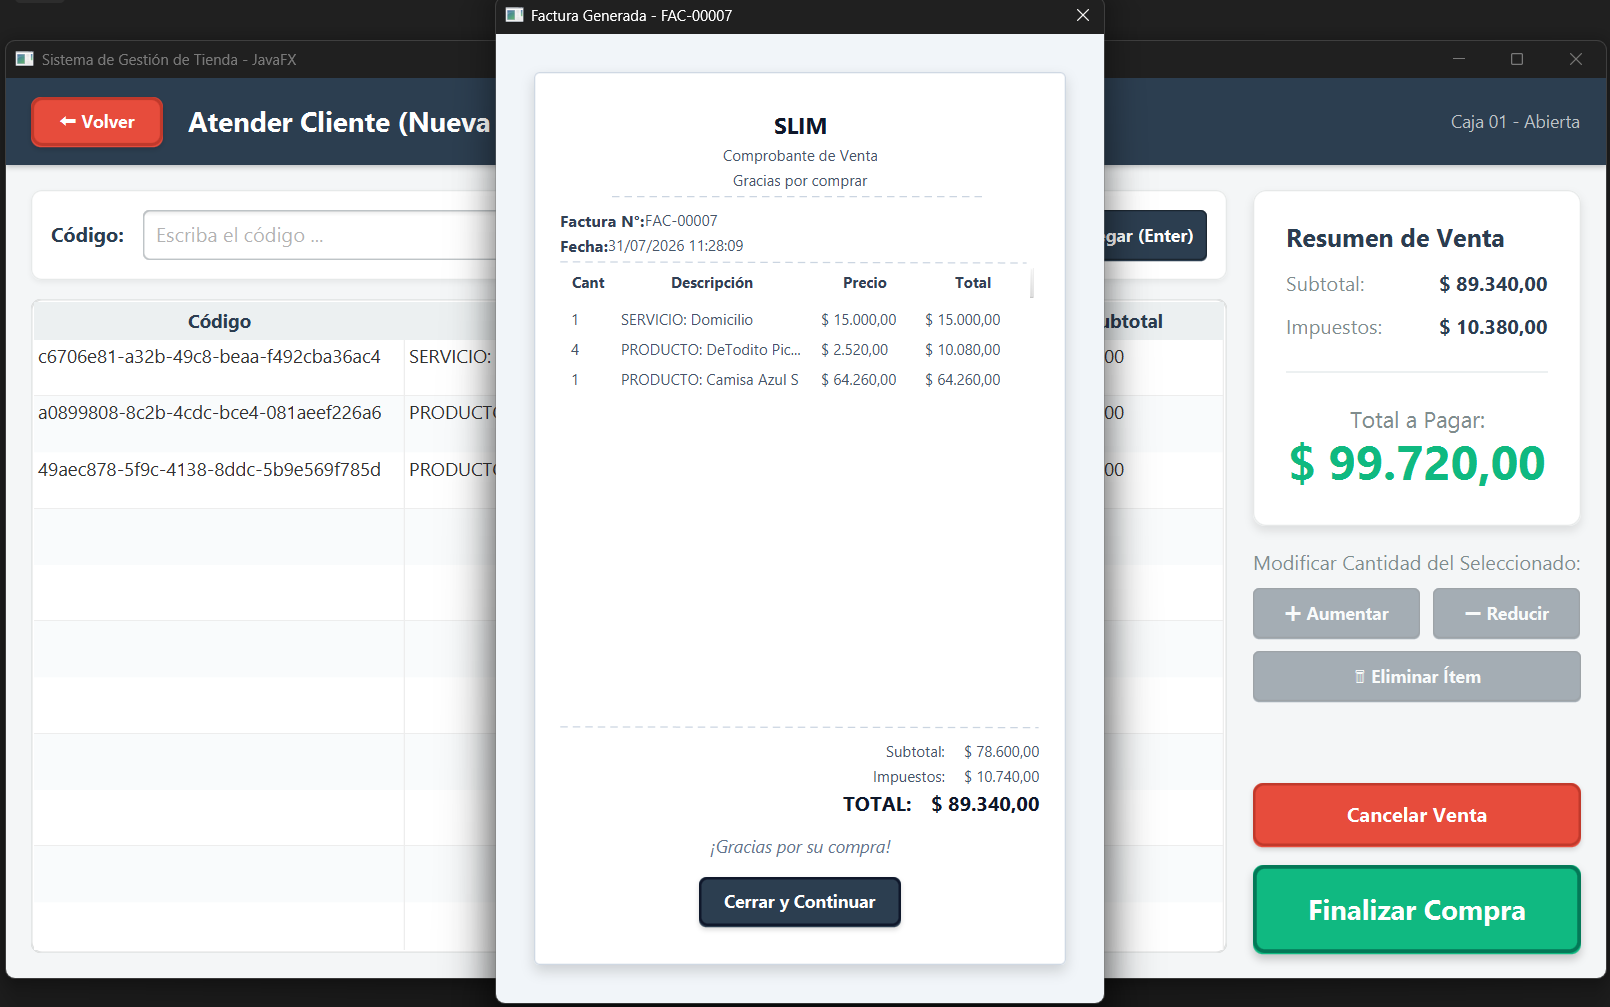
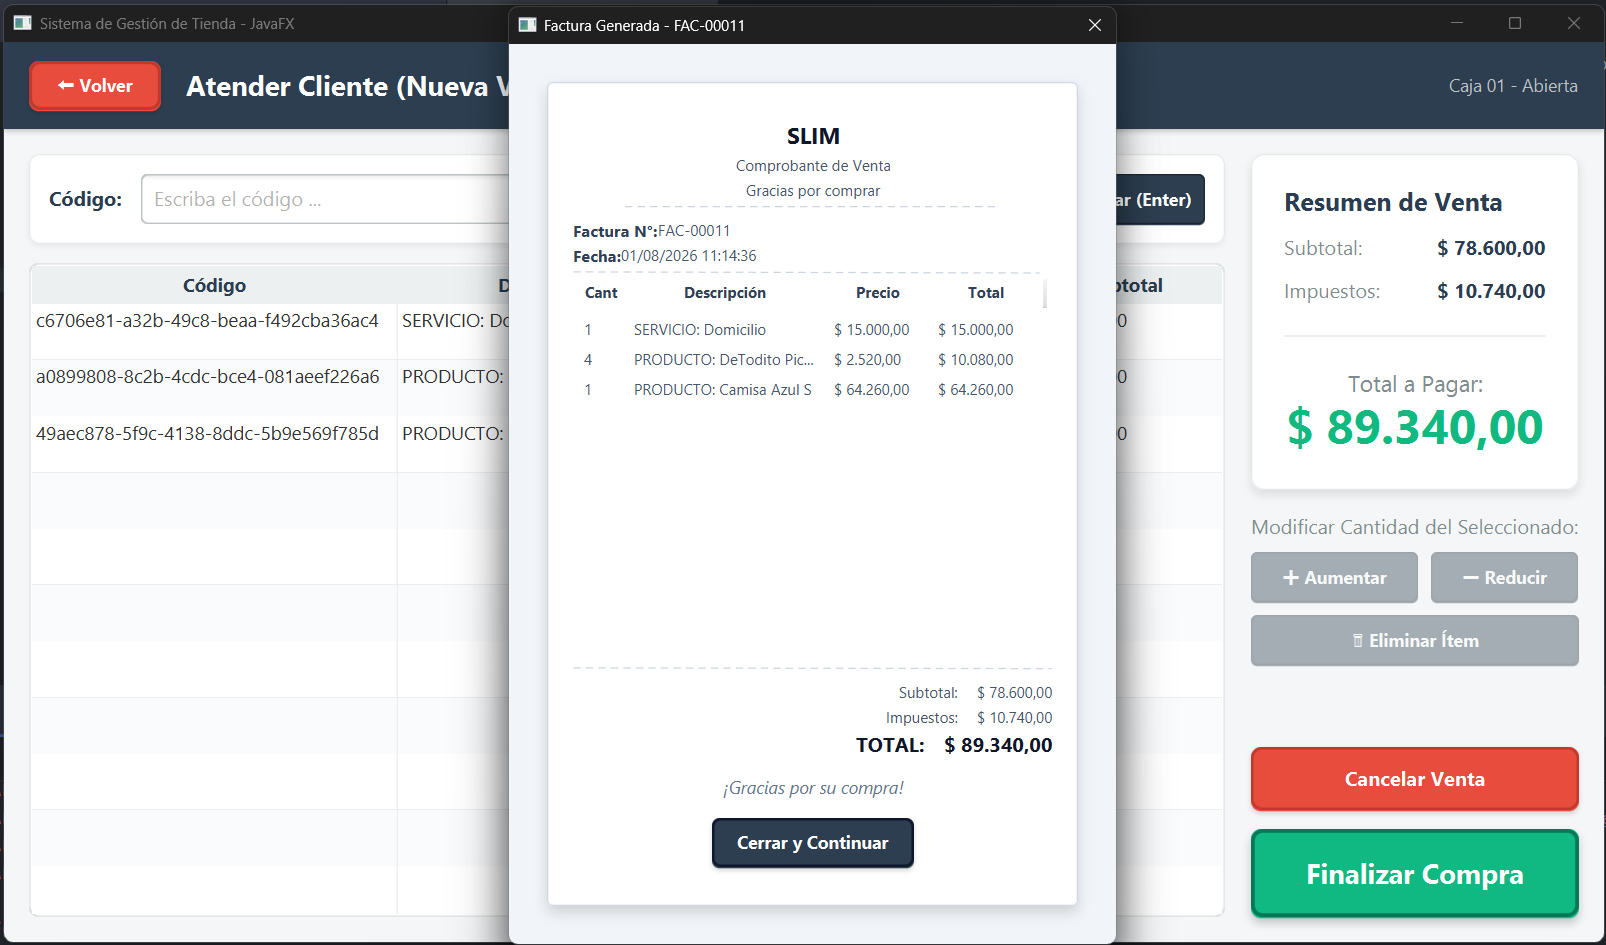
Corregi un bug en la vista de la Factura generada

diff --git a/src/main/java/RetailManagementSystem/vista/controladores/puntoDeVenta/MenuDeVentasControlador.java b/src/main/java/RetailManagementSystem/vista/controladores/puntoDeVenta/MenuDeVentasControlador.java
@@ -4,6 +4,8 @@ import RetailManagementSystem.aplicacion.dto.FacturaDTO;
 import RetailManagementSystem.aplicacion.dto.ItemCarritoDTO;
 import RetailManagementSystem.aplicacion.orquestadores.OrquestadorVentas;
 import RetailManagementSystem.dominio.entidades.SesionVenta;
+import RetailManagementSystem.dominio.excepciones.ProductoNoDisponibleException;
+import RetailManagementSystem.dominio.excepciones.ProductoVencidoException;
 import RetailManagementSystem.vista.utilidades.CargadorVistas;
 import RetailManagementSystem.vista.utilidades.FormateadorNumeros;
 import RetailManagementSystem.vista.utilidades.RutasVista;
@@ -208,6 +210,12 @@ public class MenuDeVentasControlador {
             this.orquestadorVentas.agregarItemAlCarrito(this.sesionVenta, codigo, obtenerFecha());
             actualizarTablaYTotales();
             txtCodigo.clear();
+        } catch (ProductoVencidoException e) {
+            mostrarAlerta(Alert.AlertType.WARNING, "Producto Vencido",
+                    e.getMessage() + " NO sera agregado al Carrito");
+        } catch (ProductoNoDisponibleException e) {
+            mostrarAlerta(Alert.AlertType.WARNING, "Producto NO Disponible",
+                    e.getMessage() + " NO sera agregado al Carrito");
         } catch (Exception e) {
             mostrarAlerta(Alert.AlertType.WARNING, "Error al agregar", e.getMessage());
             txtCodigo.selectAll();
@@ -225,9 +233,10 @@ public class MenuDeVentasControlador {
         BigDecimal impuestos = BigDecimal.ZERO;
         for (ItemCarritoDTO item : itemsDelCarrito) {
             subtotalVenta = subtotalVenta.add(item.subtotal());
-            impuestos = impuestos.add(item.impuestos());
+            impuestos = impuestos.add(item.impuestos()).multiply(BigDecimal.valueOf(item.cantidad()));
         }
-        BigDecimal totalGeneral = subtotalVenta.add(impuestos);
+        BigDecimal totalGeneral = subtotalVenta;
+        subtotalVenta = subtotalVenta.subtract(impuestos);
         lblSubtotal.setText(FormateadorNumeros.formatoMoneda(subtotalVenta));
         lblImpuestos.setText(FormateadorNumeros.formatoMoneda(impuestos));
         lblTotalGeneral.setText(FormateadorNumeros.formatoMoneda(totalGeneral));
@@ -345,6 +354,12 @@ public class MenuDeVentasControlador {
             } catch (NumberFormatException e) {
                 mostrarAlerta(Alert.AlertType.WARNING, "Entrada Inválida",
                         "Por favor, Ingrese un Número Entero Válido.");
+            } catch (ProductoNoDisponibleException e) {
+                mostrarAlerta(Alert.AlertType.WARNING, "Producto NO Disponible",
+                        e.getMessage() + " NO sera agregado al Carrito");
+            } catch (ProductoVencidoException e) {
+                mostrarAlerta(Alert.AlertType.WARNING, "Producto Vencido",
+                        e.getMessage() + " NO sera agregado al Carrito");
             } catch (Exception e) {
                 String mensaje = e.getMessage() != null ? e.getMessage() : "Error al Intentar Aumentar la Cantidad.";
                 mostrarAlerta(Alert.AlertType.WARNING, "Error al Aumentar", mensaje);

diff --git a/README.md b/README.md
@@ -27,14 +27,14 @@ This project began as a console application with the goal of learning object-ori
 
 ## 🚧 Project status
 
-**Current Version:** 1.0.0
+**Current Version:** 1.0.1
 
 | Module           | Status            |
 |------------------|-------------------|
 | Store Management | ✅ Completed       |
 | Point of Sale    | ✅ Completed       |
 | Documentation    | 🚧 In Development |
-| Version 1.0.0    | ✅ Completed       |
+| Version 1.0.1    | ✅ Completed       |
 
 ### Next Goal
 
@@ -375,7 +375,7 @@ Module responsible for managing the business rules used throughout the system. I
 ### 7. POS (Point of Sale) Control Panel
 
 <p>
-    <img src="docs/images/spanish/Panel_De_Control_POS.png" alt="POS Control Panel" width="1607">
+    <img src="docs/images/spanish/Panel_De_Control_POS.png" alt="POS Control Panel" width="1606">
 </p>
 
 Main screen of the point-of-sale module. It displays a summary of the day's activity, including sales made, the number of invoices issued, and the value of the last sale. It also allows quick access to create a new sale and viewing the sales history.
@@ -399,7 +399,7 @@ Revenue reporting window accessible from the Point of Sale module. It allows sel
 ### 10. Generated Invoice
 
 <p> 
-<img src="docs/images/spanish/Factura_Generada.png" alt="Invoice Generated" width="1610">
+<img src="docs/images/spanish/Factura_Generada.png" alt="Invoice Generated" width="1606">
 </p>
 
 Once a sale is completed, the system automatically generates an invoice containing the details of the purchased products and services, quantities, prices, taxes, subtotal, and total amount. The invoice summarizes the transaction and confirms the successful completion of the sale.
@@ -463,14 +463,14 @@ Este proyecto comenzó como una aplicación de consola con el objetivo de aprend
 
 ## 🚧 Estado del proyecto
 
-**Versión actual:** 1.0.0
+**Versión actual:** 1.0.1
 
 | Módulo               | Estado           |
 |----------------------|------------------|
 | Gestión de la tienda | ✅ Finalizado     |
 | Punto de venta       | ✅ Finalizado     |
 | Documentación        | 🚧 En desarrollo |
-| Versión 1.0.0        | ✅ Finalizado     |
+| Versión 1.0.1        | ✅ Finalizado     |
 
 ### Proximo Objetivo
 
@@ -811,7 +811,7 @@ Módulo encargado de administrar las reglas comerciales utilizadas por el sistem
 ### 7. Panel de control POS (Punto de Venta)
 
 <p>
-  <img src="docs/images/spanish/Panel_De_Control_POS.png" alt="Panel de Control POS" width="1607">
+  <img src="docs/images/spanish/Panel_De_Control_POS.png" alt="Panel de Control POS" width="1606">
 </p>
 
 Pantalla principal del módulo de punto de venta. Presenta un resumen de la actividad del día, incluyendo las ventas realizadas, el número de facturas emitidas y el valor de la última venta. Además, permite acceder rápidamente a la creación de una nueva venta y consultar el historial de ventas registradas.
@@ -835,7 +835,7 @@ Ventana de generación de reportes de recaudo accesible desde el módulo Punto d
 ### 10. Factura
 
 <p>
-  <img src="docs/images/spanish/Factura_Generada.png" alt="Factura Generada" width="1610">
+  <img src="docs/images/spanish/Factura_Generada.png" alt="Factura Generada" width="1606">
 </p>
 
 Al finalizar una venta, el sistema genera automáticamente un comprobante con el detalle de los productos y servicios vendidos, cantidades, precios, impuestos, subtotal y total de la transacción. Esta factura resume la operación realizada y permite confirmar el cierre exitoso de la venta.
